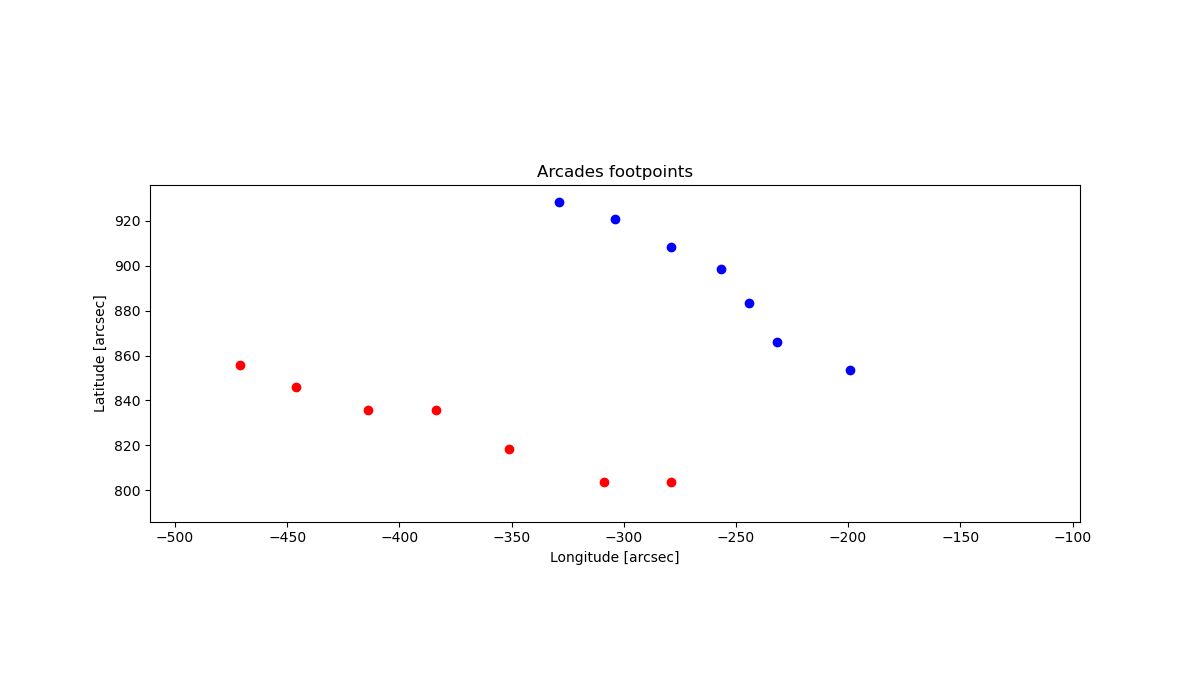
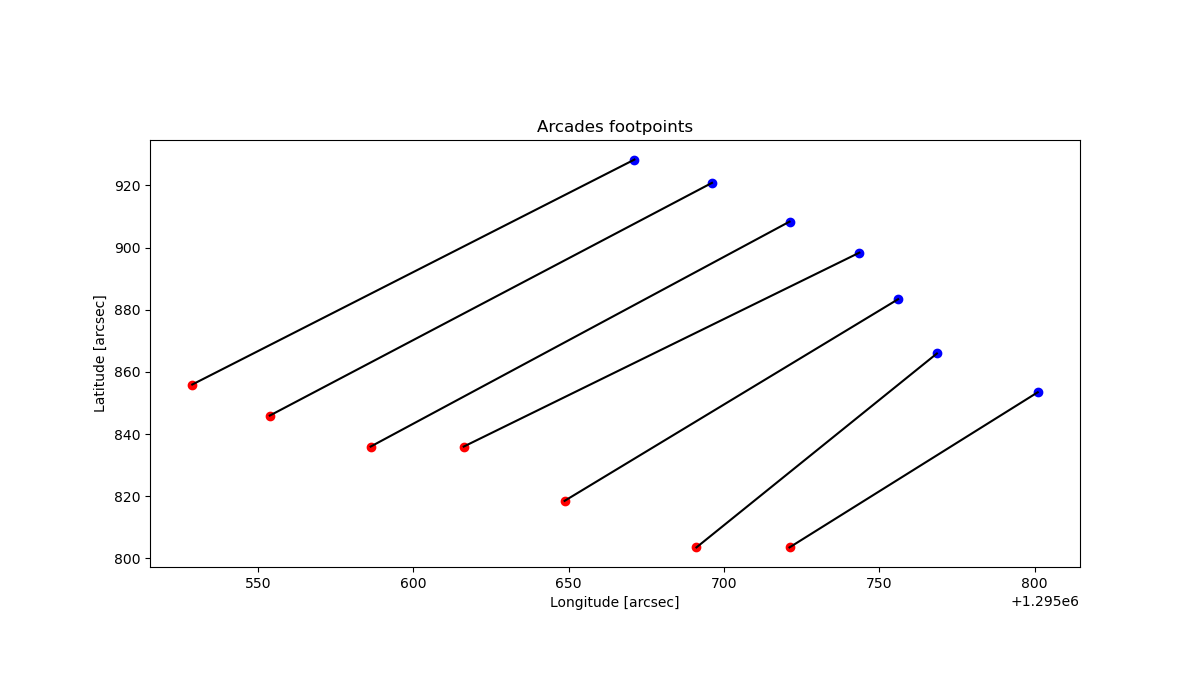
\cont arcades prop computation

diff --git a/tools/iglesias/arcades_prop.py b/tools/iglesias/arcades_prop.py
@@ -52,7 +52,7 @@ for f in files:
     df['fp2'] = df.apply(lambda x: [SkyCoord(x['lon2 [arcsec]'][i], x['lat2 [arcsec]'][i], unit='arcsec',frame="heliographic_carrington", observer="earth",  obstime=x['date']) for i in range(len(x['lon2 [arcsec]']))], axis=1)
 
     # for each row, calculate the great arc distance distance between each footpoint (arcade width) and saves it in an array in a new column
-    df['width [arcsec]'] = df.apply(lambda x: np.array([float(GreatArc(x['fp1'][i], x['fp2'][i]).distances()[1].value) for i in range(len(x['fp1']))]), axis=1)
+    df['width [arcsec]'] = df.apply(lambda x: np.array([float(GreatArc(x['fp1'][i], x['fp2'][i]).distances()[-1].value) for i in range(len(x['fp1']))]), axis=1)
 
     # for each row and each footpoint group, computes the total distance by adding the euclidean distance between conscutive footpoints
     df['length1 [arcsec]'] = df.apply(lambda x: np.array([np.sqrt((x['lon1 [arcsec]'][i]-x['lon1 [arcsec]'][i+1])**2 + (x['lat1 [arcsec]'][i]-x['lat1 [arcsec]'][i+1])**2) for i in range(len(x['lon1 [arcsec]'])-1)]), axis=1)
@@ -83,25 +83,34 @@ for f in files:
     # scatter plot of the footpoints, each group with a diff color
     for i in range(len(df)):
         plt.figure(figsize=(12,7))
-        plt.scatter(df['lon1 [arcsec]'][i], df['lat1 [arcsec]'][i], label=df['date'][i], color='red')
-        plt.scatter(df['lon2 [arcsec]'][i], df['lat2 [arcsec]'][i], label=df['date'][i], color='blue')
+        for j in range(len(df['fp1'][i])):
+            fp1= df['fp1'][i][j]
+            fp2= df['fp2'][i][j]
+            Solve why long is shown like that ?
+            Also why arcs are not bended ?
+            plt.scatter(fp1.lon.arcsec, fp1.lat.arcsec, color='r')
+            plt.scatter(fp2.lon.arcsec, fp2.lat.arcsec, color='b')
+            arc = GreatArc(fp1, fp2, points=20)
+            arc_lon = arc.coordinates().lon.arcsec
+            arc_lat = arc.coordinates().lat.arcsec
+            plt.plot(arc_lon, arc_lat, color='k')
         plt.gca().set_aspect('equal')
         plt.xlabel('Longitude [arcsec]')
         plt.ylabel('Latitude [arcsec]')
         plt.title('Arcades footpoints')
-        if i == 0:
-            all_lon_flatten = np.array([])
-            all_lat_flatten = np.array([])
-            for j in range(len(df)):
-                all_lon_flatten = np.append(all_lon_flatten, df['lon [arcsec]'][j])
-                all_lat_flatten = np.append(all_lat_flatten, df['lat [arcsec]'][j])
-            xlim = [np.min(all_lon_flatten), np.max(all_lon_flatten)]
-            ylim = [np.min(all_lat_flatten), np.max(all_lat_flatten)]
-            plt.xlim(xlim)
-            plt.ylim(ylim)
-        else:
-            plt.xlim(xlim)
-            plt.ylim(ylim)
+        # if i == 0:
+        #     all_lon_flatten = np.array([])
+        #     all_lat_flatten = np.array([])
+        #     for j in range(len(df)):
+        #         all_lon_flatten = np.append(all_lon_flatten, df['lon [arcsec]'][j])
+        #         all_lat_flatten = np.append(all_lat_flatten, df['lat [arcsec]'][j])
+        #     xlim = [np.min(all_lon_flatten), np.max(all_lon_flatten)]
+        #     ylim = [np.min(all_lat_flatten), np.max(all_lat_flatten)]
+        #     plt.xlim(xlim)
+        #     plt.ylim(ylim)
+        # else:
+        #     plt.xlim(xlim)
+        #     plt.ylim(ylim)
         
         oimage = os.path.join(odir_ev, f.split('/')[-1].replace('.csv', '_footpoints'+str(i)+'.png'))
         plt.savefig(oimage)
